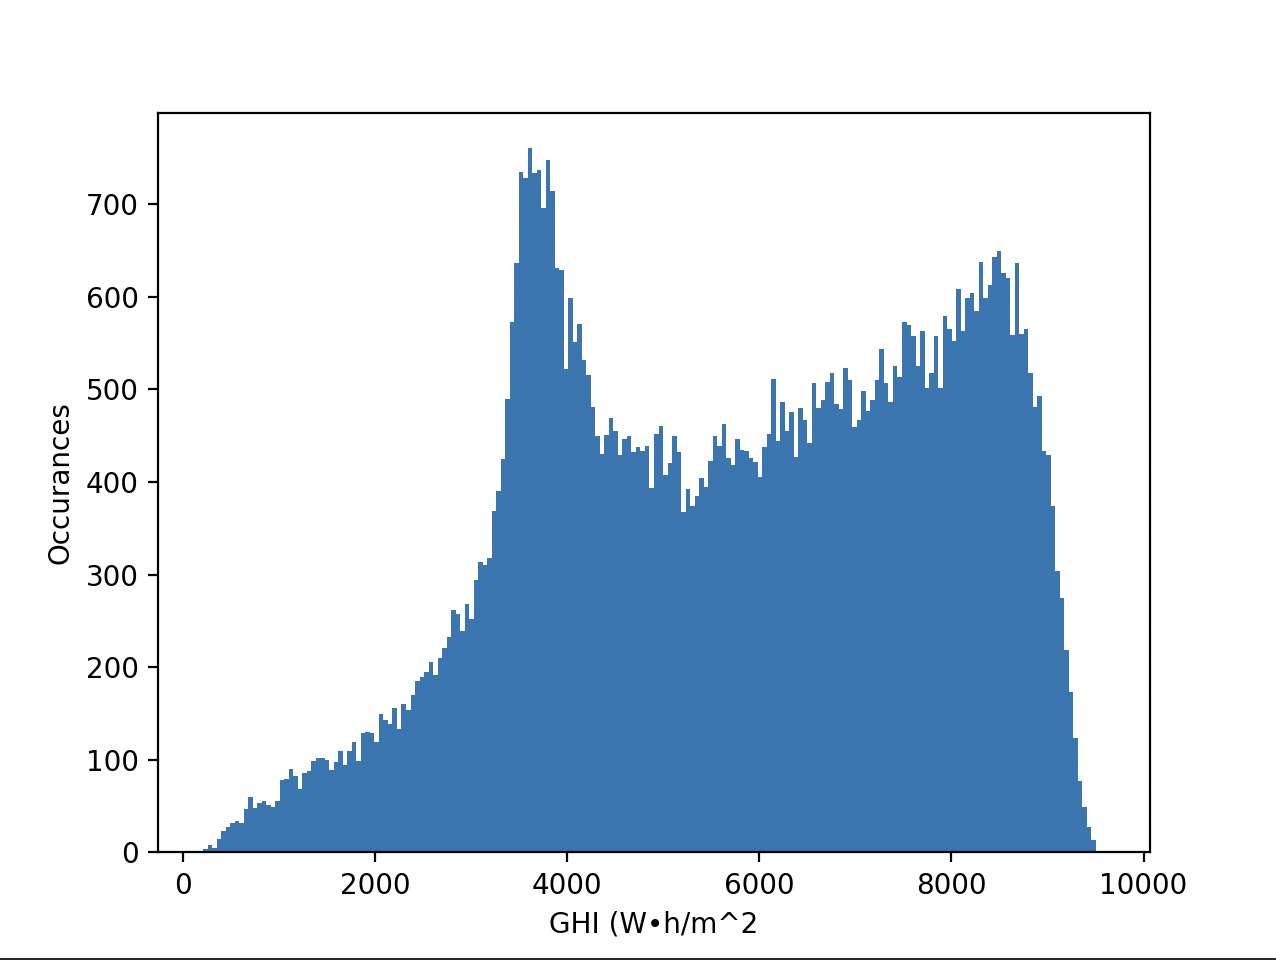
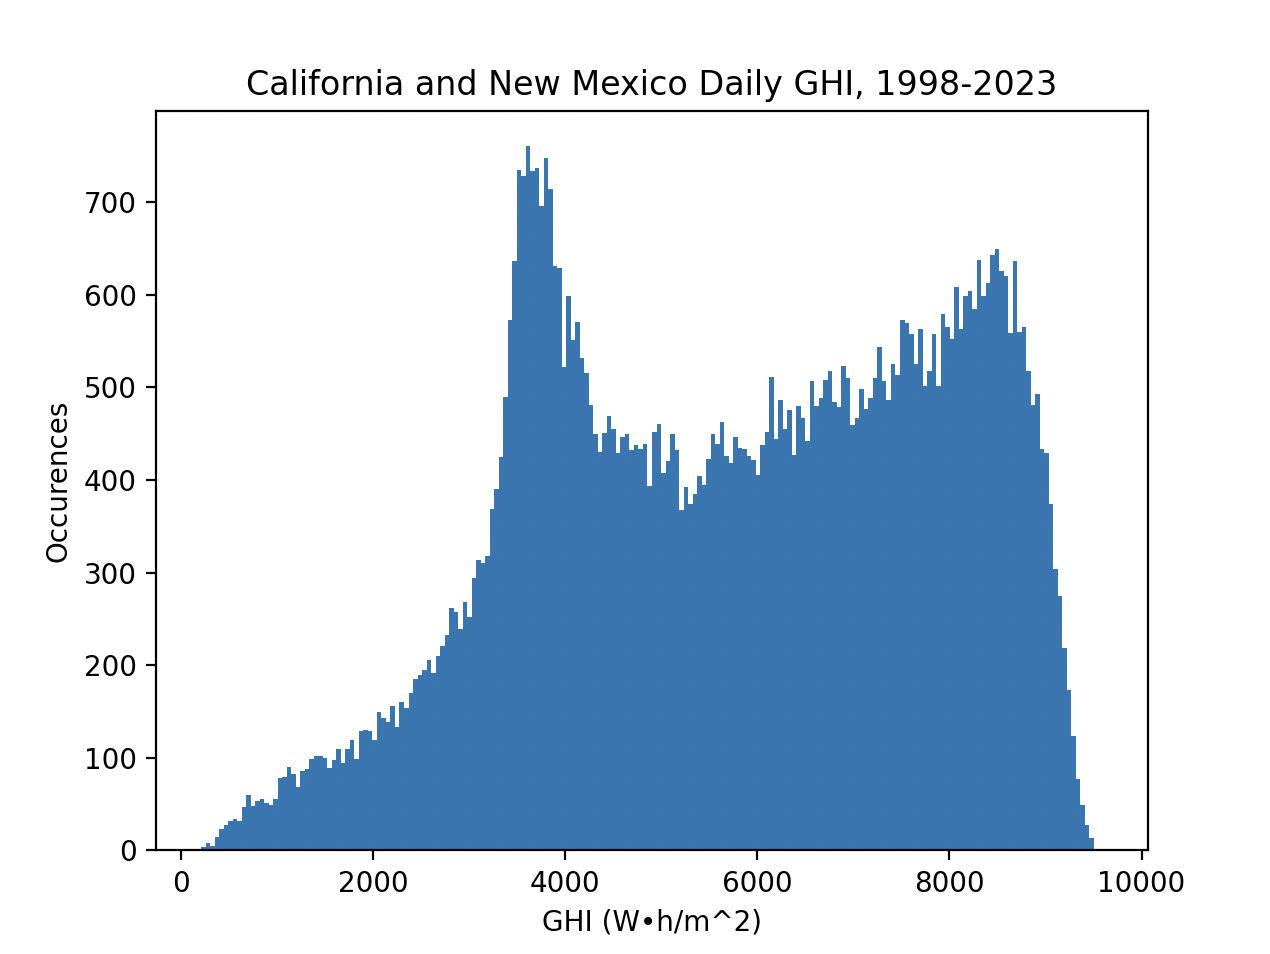
Added 1% low analysis, state averages

diff --git a/plotting.py b/plotting.py
@@ -15,10 +15,66 @@ import numpy as np
 # variance (state vs interstate)
 
 
-def hist_plot(daily_data):
+def hist_plot_all(daily_data):
     plt.hist(x=daily_data["GHI"], bins = 200)
+    plt.title("California and New Mexico Daily GHI, 1998-2023")
+    plt.xlabel("GHI (W•h/m^2)")
+    plt.ylabel("Occurences")
+    plt.show()
+
+def hist_plot_each_state(daily_data):
+    cal_data = state_daily_average(daily_data, "cal")
+    nm_data = state_daily_average(daily_data, "nm")
+
+    plt.subplot(1, 2, 1)
+    plt.hist(x=cal_data["GHI"], bins = 200)
+    plt.title("California (4 point average), 1998-2023")
     plt.xlabel("GHI (W•h/m^2")
-    plt.ylabel("Occurances")
+    plt.ylabel("Occurences")
+
+    plt.subplot(1, 2, 2)
+    plt.hist(x=nm_data["GHI"], bins = 200)
+    plt.title("New Mexico (4 point average), 1998-2023")
+    plt.xlabel("GHI (W•h/m^2")
+    plt.ylabel("proportion of occurences")
+
+    plt.show()
+
+def hist_plot_all_norm(daily_data):
+    low = n_percent_low(daily_data, 1)["GHI"].max()
+
+    plt.hist(x=daily_data["GHI"], bins = 200, density=True)
+    plt.title("California and New Mexico Daily GHI, 1998-2023")
+    plt.xlabel("GHI (W•h/m^2)")
+    plt.ylabel("proportion of occurences")
+    line = plt.axvline(low, c="red", ls="--", label=f"1% low: {low} W•h/m^2")
+    plt.legend(handles=[line])
+
+    plt.show()
+
+def hist_plot_each_state_norm(daily_data):
+    cal_data = state_daily_average(daily_data, "cal")
+    nm_data = state_daily_average(daily_data, "nm")
+
+    nm_low = n_percent_low(nm_data, 1)['GHI'].max()
+    cal_low = n_percent_low(cal_data, 1)["GHI"].max()
+
+    plt.subplot(1, 2, 1)
+    plt.hist(x=cal_data["GHI"], bins = 200, density=True)
+    plt.title("California (4 point average), 1998-2023")
+    plt.xlabel("GHI (W•h/m^2")
+    plt.ylabel("proportion of occurences")
+    line = plt.axvline(cal_low, c="red", ls="--", label=f"1% low: {cal_low} W•h/m^2")
+    plt.legend(handles=[line])
+
+    plt.subplot(1, 2, 2)
+    plt.hist(x=nm_data["GHI"], bins = 200, density=True)
+    plt.title("New Mexico (4 point average), 1998-2023")
+    plt.xlabel("GHI (W•h/m^2")
+    plt.ylabel("proportion of occurences")
+    line = plt.axvline(nm_low, c="red", ls="--", label=f"1% low: {nm_low} W•h/m^2")
+    plt.legend(handles=[line])
+
     plt.show()
 
 
@@ -130,11 +186,15 @@ def one_percent(daily_data: pd.DataFrame):
 
 if __name__ == "__main__":
     # Get and clean data
-    daily_data: pd.DataFrame = pd.read_csv("/content/drive/MyDrive/SolarCorrections/daily_data/all-locations-daily.csv")
+    # daily_data: pd.DataFrame = pd.read_csv("/content/drive/MyDrive/SolarCorrections/daily_data/all-locations-daily.csv")
+    daily_data: pd.DataFrame = pd.read_csv("daily_data/all-locations-daily.csv")
     daily_data = daily_data[daily_data["Year"] != 2002] # type: ignore
 
     #Histogram of the plots
-    hist_plot(daily_data)
+    hist_plot_all(daily_data)
+    hist_plot_each_state(daily_data)
+    hist_plot_all_norm(daily_data)
+    hist_plot_each_state_norm(daily_data)
     #Variance by state
     variances = calculate_variance_by_states(daily_data)
     #Covariance by state

diff --git a/README.md b/README.md
@@ -23,6 +23,7 @@ solar electricity to either California or New Mexico.
 In this project, we want to measure the empirical independence or correlation of New Mexico and California's expected sunlight.
 We will use a variety of techniques to get an understanding of the relationship between their respective solar irradiance. And we want to
 categorize the benefit this could provide when an electrical grid relies mainly solar power.
+ ### Dataset
 
  ## Methods
 
@@ -55,3 +56,13 @@ currently not able to be simplified.
 ![Figure 1](images/GHI_all_days.png)
 
 It is tempting at first to think that we could sum together many days in an attempt to get a distribition that approximates a normal one due to the central limit theorem, however this is not an option in this case. A main purpose of this paper is to analyze the daily variation in solar resources, so the moment we start summing different days we lose the granularity that we need for strong results.
+
+We can, however, take this data gathered from eight points, four in California and four in New Mexico, and take their average. This would be equivalent to spreading generation resources out across these points. First, we can look at the results we get from each state after averaging the GHI from the four locations within.
+
+![alt text](images/GHI_state_average.png)
+
+We can see that these states have very similar value spreads, which is somewhat expected as the points in each state share latitudes with the points in the other. We do, however, have far fewer occurences of each GHI level in general because we have filtered our dataset by state and compress the four intrastate points into one. In order to more clearly compare these sets, ee can normalize this data to get distributions that will sum to 1, and tell us the probability that a random day from the dataset lands in a given bar on the histogram.
+
+![alt text](images/GHI_all_norm_1p.png)
+
+![alt text](images/state_GHI_norm_1p.png)
